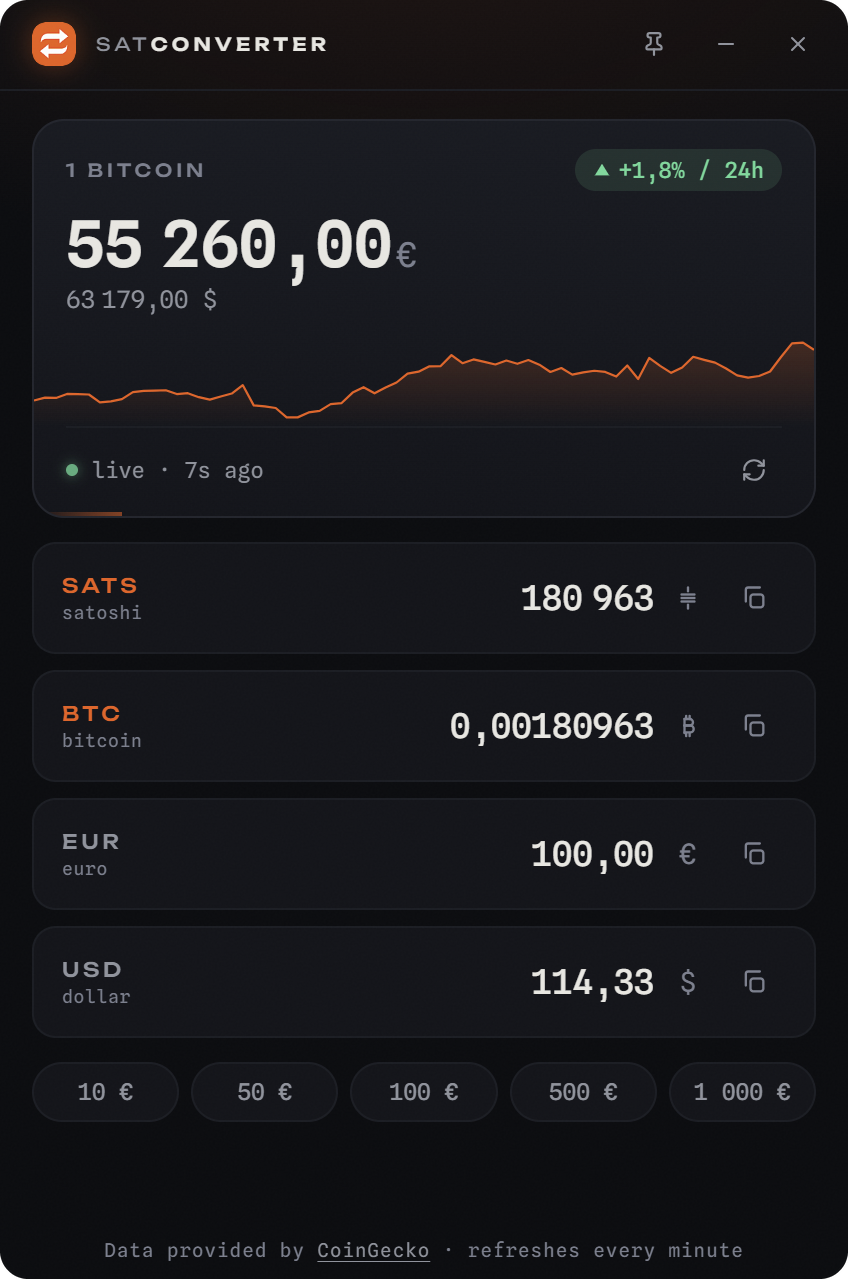
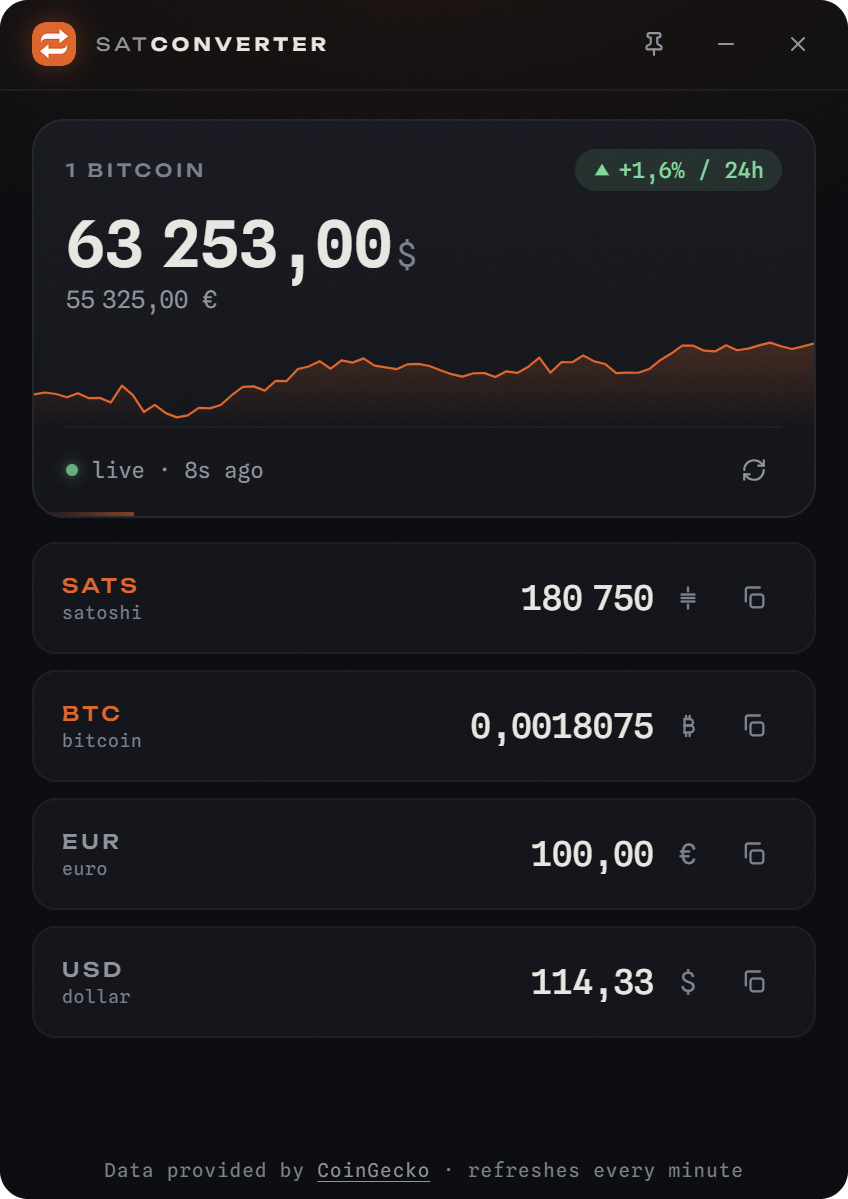
usd first, remove presets

diff --git a/ui/main.js b/ui/main.js
@@ -22,7 +22,7 @@
     '?ids=bitcoin&vs_currencies=eur,usd&include_24hr_change=true';
   const SPARK_URL =
     'https://api.coingecko.com/api/v3/coins/bitcoin/market_chart' +
-    '?vs_currency=eur&days=1';
+    '?vs_currency=usd&days=1';
 
   /* ── State ─────────────────────────────────────────────────────── */
 
@@ -134,14 +134,14 @@
 
   function renderPrice(animate) {
     if (!P.eur) return;
-    const el = $('priceEur');
+    const el = $('priceUsd');
     el.innerHTML = '';
-    el.append(fmt.eur(P.eur));
+    el.append(fmt.usd(P.usd));
     const cur = document.createElement('span');
     cur.className = 'cur';
-    cur.textContent = '€';
+    cur.textContent = '$';
     el.append(cur);
-    $('priceUsd').textContent = fmt.usd(P.usd) + ' $';
+    $('priceEur').textContent = fmt.eur(P.eur) + ' €';
     if (animate) {
       el.classList.remove('bump');
       void el.offsetWidth;
@@ -247,7 +247,7 @@
       const btc = data.bitcoin;
       P.eur = Number(btc.eur);
       P.usd = Number(btc.usd);
-      P.change24 = Number(btc.eur_24h_change ?? 0);
+      P.change24 = Number(btc.usd_24h_change ?? 0);
       P.ts = Math.floor(Date.now() / 1000);
       offline = false;
       store.set('prices', { eur: P.eur, usd: P.usd, change24: P.change24, ts: P.ts });
@@ -327,16 +327,6 @@
       try { await copyToClipboard(rawValue(key, v)); } catch { return; }
       btn.classList.add('done');
       setTimeout(() => btn.classList.remove('done'), 900);
-    });
-  });
-
-  /* ── Presets ───────────────────────────────────────────────────── */
-
-  document.querySelectorAll('.preset').forEach((btn) => {
-    btn.addEventListener('click', () => {
-      setField('eur', fmt.eur(parseFloat(btn.dataset.eur)));
-      markSource('eur');
-      recompute('eur');
     });
   });
 

diff --git a/ui/styles.css b/ui/styles.css
@@ -255,17 +255,6 @@ main {
 .copy-btn.done .ic-copy { display: none; }
 .copy-btn.done .ic-check { display: block; }
 
-/* ── Presets ────────────────────────────────────────────────────── */
-.presets { display: flex; gap: 6px; flex-shrink: 0; }
-.preset {
-  flex: 1; height: 30px; border-radius: 99px;
-  font-size: 11.5px; font-weight: 500; color: var(--muted);
-  background: var(--panel); border: 1px solid var(--line-soft);
-  transition: color .15s, border-color .15s, background .15s;
-  white-space: nowrap;
-}
-.preset:hover { color: var(--accent); border-color: rgba(252, 91, 2, .45); background: var(--accent-dim); }
-
 footer {
   margin-top: auto;
   padding: 8px 0 9px;
@@ -282,13 +271,12 @@ footer {
 
 /* ── Launch reveal ──────────────────────────────────────────────── */
 @keyframes rise { from { opacity: 0; transform: translateY(9px); } to { opacity: 1; transform: none; } }
-.hero, .row, .presets, footer { animation: rise .45s cubic-bezier(.22, 1, .36, 1) backwards; }
+.hero, .row, footer { animation: rise .45s cubic-bezier(.22, 1, .36, 1) backwards; }
 .row:nth-child(1) { animation-delay: .06s; }
 .row:nth-child(2) { animation-delay: .11s; }
 .row:nth-child(3) { animation-delay: .16s; }
 .row:nth-child(4) { animation-delay: .21s; }
-.presets { animation-delay: .27s; }
-footer  { animation-delay: .32s; }
+footer  { animation-delay: .27s; }
 
 @media (prefers-reduced-motion: reduce) {
   *, *::before, *::after { animation: none !important; transition: none !important; }

diff --git a/ui/index.html b/ui/index.html
@@ -32,8 +32,8 @@
         <span class="hero-label">1 Bitcoin</span>
         <span id="chip24" class="chip">— / 24h</span>
       </div>
-      <div id="priceEur" class="hero-price">—<span class="cur">€</span></div>
-      <div id="priceUsd" class="hero-sub">—</div>
+      <div id="priceUsd" class="hero-price">—<span class="cur">$</span></div>
+      <div id="priceEur" class="hero-sub">—</div>
       <div class="spark-wrap">
         <svg id="spark" viewBox="0 0 100 32" preserveAspectRatio="none" aria-hidden="true">
           <defs>
@@ -98,14 +98,6 @@
           <svg class="ic-check" viewBox="0 0 24 24" fill="none" stroke="currentColor" stroke-width="2.4" stroke-linecap="round" stroke-linejoin="round"><path d="M20 6 9 17l-5-5"/></svg>
         </button>
       </div>
-    </section>
-
-    <section class="presets" aria-label="Quick EUR amounts">
-      <button class="preset" data-eur="10">10 €</button>
-      <button class="preset" data-eur="50">50 €</button>
-      <button class="preset" data-eur="100">100 €</button>
-      <button class="preset" data-eur="500">500 €</button>
-      <button class="preset" data-eur="1000">1 000 €</button>
     </section>
 
     <footer>Data provided by <button id="cgLink" class="linklike">CoinGecko</button> · refreshes every minute</footer>

diff --git a/README.md b/README.md
@@ -27,7 +27,7 @@ Grab the latest installer from the [Releases](https://github.com/LoicPandul/SatC
 
 - Type in any field — the three others update instantly
 - Live price, 24h change and sparkline, refreshed every minute
-- One-click copy, quick EUR presets, always-on-top pin
+- One-click copy, always-on-top pin
 - Works offline with the last known price
 - Remembers its window position · single instance
 - Number formats follow your system locale
